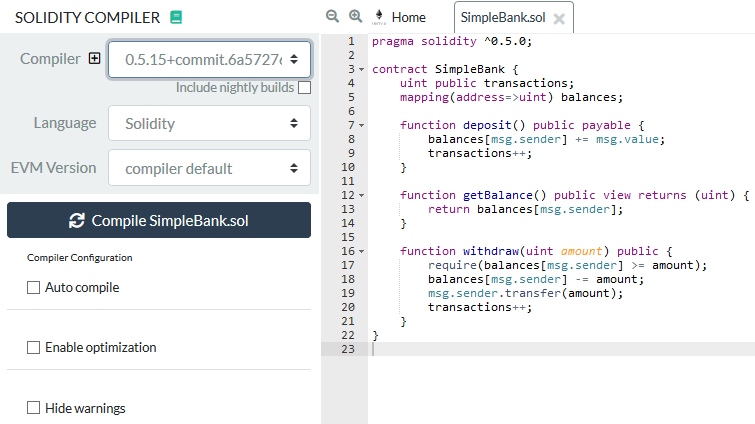
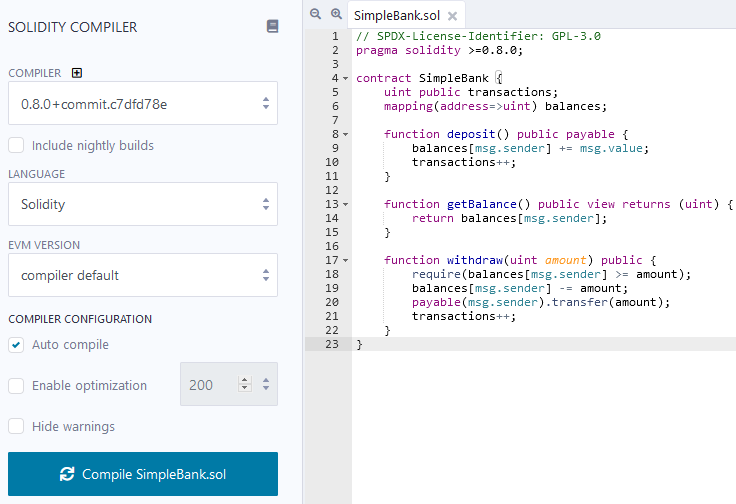
Update Remix part

diff --git a/guide.md b/guide.md
@@ -259,12 +259,6 @@ Furthermore, the blockchain is permanent so buggy contracts cannot be patched on
 It is therefore highly recommended to read about [security considerations](https://docs.soliditylang.org/en/v0.8.0/security-considerations.html), [common attacks](https://medium.com/coinmonks/common-attacks-in-solidity-and-how-to-defend-against-them-9bc3994c7c18) and [best practices](https://consensys.github.io/smart-contract-best-practices/known_attacks/).
 There is also a handful of tools targeting the verification of contracts, including [Truffle](https://truffleframework.com/), [Securify](https://github.com/eth-sri/securify2), [MythX](https://mythx.io/), [Slither](https://github.com/crytic/slither), [solc-verify](https://github.com/SRI-CSL/solidity/), [VerX](https://verx.ch/) and [VeriSol](https://github.com/microsoft/verisol).
 
-**----------------------------------------**
-
-**WARNING: the part below is not yet updated to 0.8.0, it still corresponds to 0.5.15.**
-
-**----------------------------------------**
-
 ## Development and test environments
 
 As with other programming languages, development requires some tools.
@@ -283,25 +277,31 @@ Finally, in order to deploy a contract to a real network one also needs a wallet
 
 ### Remix
 We cover the basics of [Remix](http://remix.ethereum.org), for more information, please refer to the [documentation of Remix](https://remix-ide.readthedocs.io/en/latest/).
+_Hint:_ you can choose from different themes using the settings at the bottom left.
 
 **Writing a contract.**
+Remix has different modules, which can be accessed from the icons on the left.
+Let's start with the [file explorers](https://remix-ide.readthedocs.io/en/latest/file_explorer.html).
 You can create or import files in Remix with the icons on the top left (file explorers).
 As an example, create a new file named `SimpleBank.sol` and copy the code from the SimpleBank example above.
-Remix supports syntax highlighting and auto completion as well.
+The Remix [editor](https://remix-ide.readthedocs.io/en/latest/solidity_editor.html) supports syntax highlighting and auto completion as well.
+Don't mind the `artifacts` folder, it appears automatically during compilation.
 
 ![A smart contract in the editor of Remix](img/remix-editor.png)
 
 **Compiling a contract.**
-In order to compile a contract, the compiler plug-in has to be activated by clicking on the plug-in icon on the left sidebar and finding the _Solidity compiler_ plugin.
-A new icon for the compiler should appear in the left sidebar which activates the compiler tab.
-You can select a compiler version and click _Compile_ or you can also turn on the _Auto compile_ option.
-On a successful compilation, the contract name will appear below the compiler configuration.
+In order to compile a contract, the [compiler plug-in](https://remix-ide.readthedocs.io/en/latest/compile.html) has to be activated (if it is not active yet) by clicking on the plug-in icon on the left sidebar and finding the _Solidity compiler_ plugin.
+A new icon for the compiler should appear in the left sidebar, which activates the compiler tab.
+Make sure to select an appropriate compiler version and click the _Compile_ button.
+You can also turn on the _Auto compile_ option.
+On a successful compilation, the contract name will appear below the button.
+Warnings or errors also appear below.
 
 ![Compiling in Remix](img/remix-compiler.png)
 
 
 **Testing a contract.**
-For a simple local test, activate the _Deploy & run transactions_ plug-in.
+For a simple local test, activate the  [Deploy & run transactions plug-in](https://remix-ide.readthedocs.io/en/latest/run.html).
 The default _environment_ is JavaScript VM, which runs an Ethereum Virtual Machine (EVM) locally (i.e., it does not connect to the real network).
 This makes testing quick and free.
 Remix also supports connecting to a real network by selecting the Web3 option as an environment (which requires a wallet first).
@@ -333,7 +333,7 @@ After executing the function, the return value (if any) appears below.
 ![The deployed contract in Remix](img/remix-deployed.png)
 
 You can also inspect the details of the transactions at the bottom (below the editor).
-For example, you can see the deployment transaction below.
+For example, you can see all the details of the deployment transaction on the image below.
 
 ![Details of a transaction in Remix](img/remix-details.png)
 
@@ -343,10 +343,16 @@ Then `getBalance` should return 10000000000000000000 (Wei).
 Calling `transactions` should return 1.
 If you switch to a different account and call `getBalance` you should see 0.
 If you try to `withdraw`, the transaction should fail due to the `require`.
-Switching back to the previous account, `withdraw` should work (for no more than 10 Ether).
+Switching back to the previous account, `withdraw` should work (for at most 10 Ether, of course).
 
 If you make modifications to the contract, don't forget to compile and deploy again!
-You can also take a look at other plug-ins, such as the _Solidity static analysis_, the _Solidity unit testing_ or the _Debugger_.
+You can also take a look at other plug-ins, such as the [Solidity static analysis](https://remix-ide.readthedocs.io/en/latest/static_analysis.html), the [Solidity unit testing](https://remix-ide.readthedocs.io/en/latest/unittesting.html) or the [Debugger](https://remix-ide.readthedocs.io/en/latest/debugger.html).
+
+**----------------------------------------**
+
+**WARNING: the part below is not yet updated to 0.8.0, it still corresponds to 0.5.15.**
+
+**----------------------------------------**
 
 ### Local testing with Truffle
 
